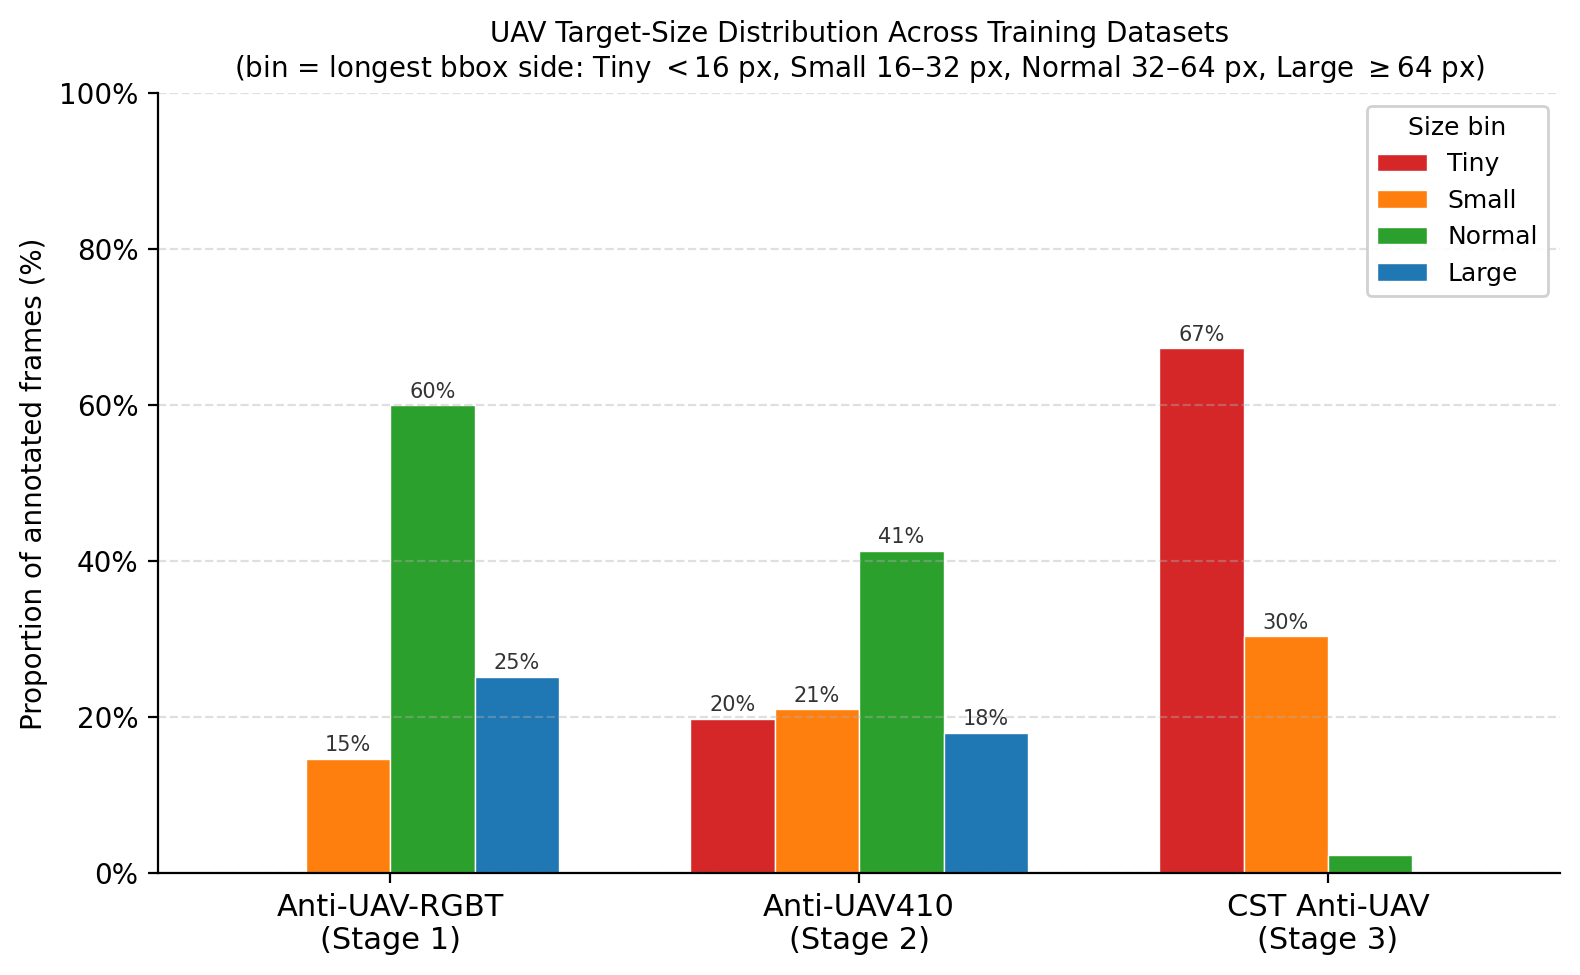
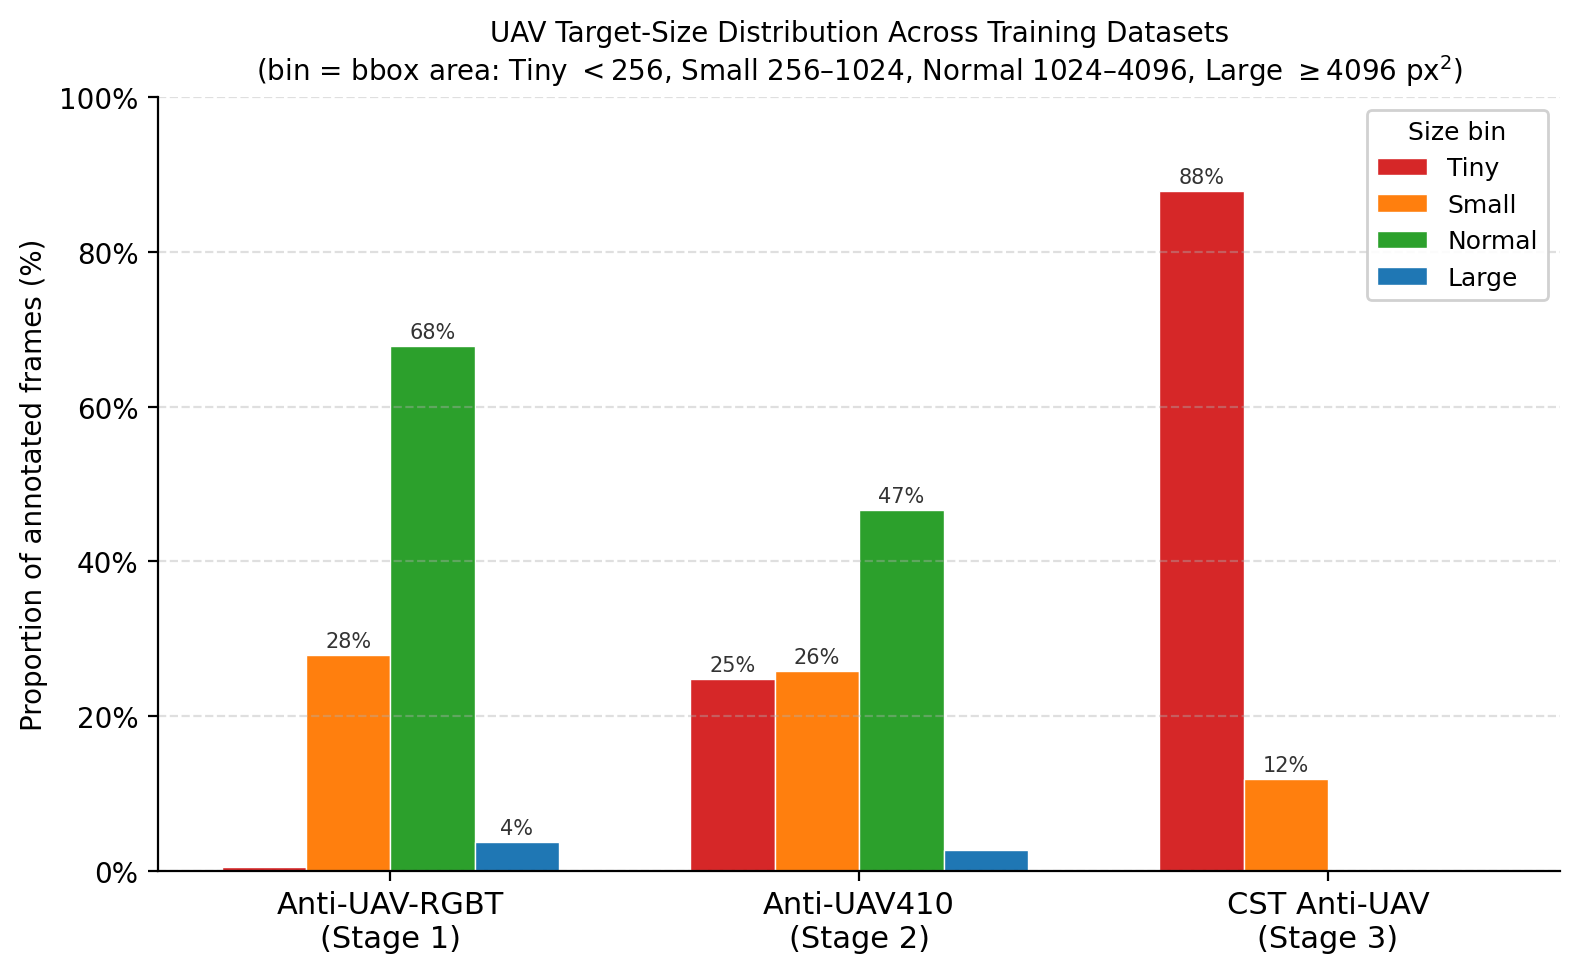
Updated the script and readme

diff --git a/src/plotting/plot_scale_distribution.py b/src/plotting/plot_scale_distribution.py
@@ -51,11 +51,13 @@ BINS   = ["Tiny", "Small", "Normal", "Large"]
 COLORS = ["#d62728", "#ff7f0e", "#2ca02c", "#1f77b4"]   # red → blue
 
 def classify(w, h):
-    """Bin by longest side (pixels)."""
-    longest = max(w, h)
-    if longest < 16:  return "Tiny"
-    if longest < 32:  return "Small"
-    if longest < 64:  return "Normal"
+    """Bin by bounding-box AREA in px^2, matching the per-stratum mAP and the
+    SSH buffer (thresholds 256/1024/4096 = 16^2/32^2/64^2). All datasets are
+    native 640x512, so raw box w*h is the same frame used elsewhere."""
+    area = w * h
+    if area < 256:   return "Tiny"
+    if area < 1024:  return "Small"
+    if area < 4096:  return "Normal"
     return "Large"
 
 
@@ -222,7 +224,7 @@ def make_figure(datasets, out_path):
     ax.yaxis.set_major_formatter(mticker.PercentFormatter())
     ax.set_title(
         "UAV Target-Size Distribution Across Training Datasets\n"
-        r"(bin = longest bbox side: Tiny $<$16 px, Small 16–32 px, Normal 32–64 px, Large $\geq$64 px)",
+        r"(bin = bbox area: Tiny $<$256, Small 256–1024, Normal 1024–4096, Large $\geq$4096 px$^2$)",
         fontsize=10
     )
     ax.legend(title="Size bin", fontsize=9, title_fontsize=9,
@@ -276,12 +278,4 @@ def main():
 
     datasets = [
         ("Anti-UAV-RGBT\n(Stage 1)", rgbt),
-        ("Anti-UAV410\n(Stage 2)",   uav410),
-        ("CST Anti-UAV\n(Stage 3)",  cst),
-    ]
-    make_figure(datasets, args.out)
-    print("\nDone.")
-
-
-if __name__ == "__main__":
-    main()
+        ("Anti-UAV

diff --git a/README.md b/README.md
@@ -167,10 +167,10 @@ Buffer built and verified using Stage 2 seed-42 checkpoint on Anti-UAV-RGBT val 
 
 | Stratum | Eligible frames | Selected | Sampling rate |
 |---------|----------------|----------|---------------|
-| Tiny (<16 px) | 197 | 75 | 38.1% |
-| Small (16–32 px) | 14,798 | 75 | 0.5% |
-| Normal (32–64 px) | 42,608 | 75 | 0.2% |
-| Large (>64 px) | 3,017 | 75 | 2.5% |
+| Tiny (<256 px²) | 197 | 75 | 38.1% |
+| Small (256–1024 px²) | 14,798 | 75 | 0.5% |
+| Normal (1024–4096 px²) | 42,608 | 75 | 0.2% |
+| Large (≥4096 px²) | 3,017 | 75 | 2.5% |
 | **Total** | 60,620 | **300** | — |
 
 ---
@@ -337,7 +337,7 @@ Always use the absolute interpreter path on Snellius:
 
 **CSTDataset:** `IR_label.json` uses key `gt` (not `gt_rect`); images at `{seq}/{frame:06d}.jpg` (1-based, 6-digit).
 
-**Size bins (UAV-specific):** tiny <16 px, small 16–32 px, normal 32–64 px, large ≥64 px (longest bbox side). Standard COCO bins (32/96/192 px) are inappropriate for sub-100 px thermal UAV targets.
+**Size bins (UAV-specific):** tiny <256 px², small 256–1024 px², normal 1024–4096 px², large ≥4096 px² (bbox area; thresholds = 16²/32²/64² px). Standard COCO bins (32/96/192 px) are inappropriate for sub-100 px thermal UAV targets.
 
 **VideoCapture:** `persistent_workers=False` — with `True`, workers accumulate RAM and kill long jobs (observed at Stage 1 epoch 83; best checkpoint at epoch 49 was safe).
 